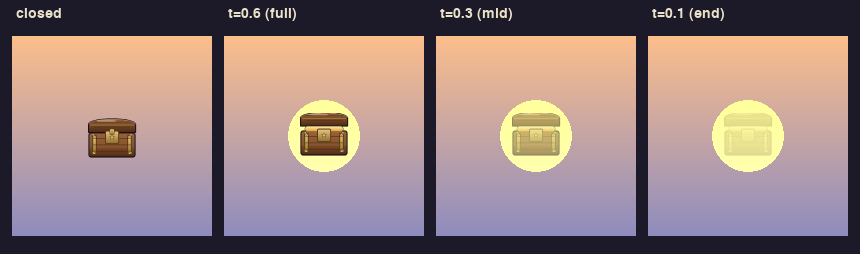
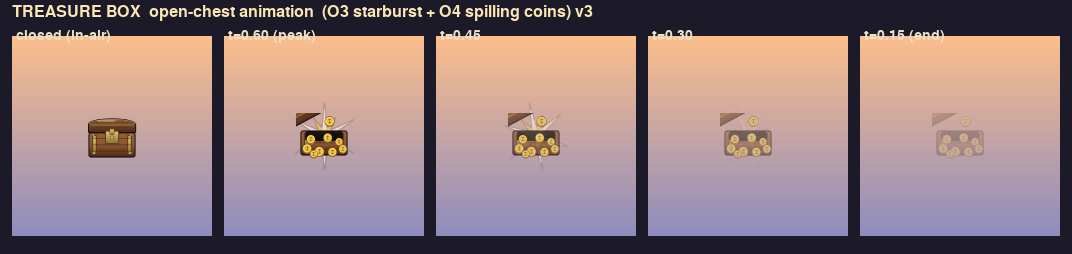
Treasure box: revise open-chest moment to O3+O4 combined
Round 1's open sprite ("lid lifted 5px + flat gold strip") read as
bland; user rejected it. Round 2 combines the two strongest candidates
from the options sheet:

* O4 spilling-coin pile — half-open lid rotated 28 deg back on a rear
  hinge, dark interior void, 3 back-row coins inside the body, 5
  spilling coins breaking the front-lip silhouette, 1 larger coin
  leaping above the lid. Ports the icon_b2 recipe from the design
  tool wrapped in W4 walnut + brass so the chest still reads as the
  approved design family.
* O3 starburst halo — 12-ray cream/gold fan drawn BEHIND the chest,
  rotating ~75 deg/sec for shimmer. Sized 1.24x the chest so the rays
  poke past the silhouette by ~12% per side; capped at alpha 180 so
  the rays never wash out the chest underneath.

Per-frame composition driven by claimed_anim_t / TREASURE_BOX_ANIM_T:

* Starburst fades over the FIRST 55% of the window (quadratic fall-off)
  so it reads as the "flash of the jackpot," not a permanent backdrop.
* Chest fades linearly over the FULL window so the loot read survives
  past the burst flash.

The two-stage fade staggering is what fixes the "starburst washes out
chest" symptom from the first v2 attempt — the rays peak with the
chest, then bow out so the eye settles on the spilling coins.

Reuses _gold_coin verbatim from tools/render_treasure_box_options.py
(the parent design tool's helper). Starburst is a fresh procedural
draw at SS supersample, smoothscaled to footprint, cached at module
[…]

diff --git a/game/treasure_box.py b/game/treasure_box.py
@@ -44,10 +44,16 @@ BRASS_INK = (90, 62, 18)
 
 GOLD_INK = (110, 72, 10)
 
-# Interior treasure-light gradient — used only by the open variant to
-# fill the gap between the raised lid and the body.
-GLOW_HI = (255, 244, 196)
-GLOW_LO = (220, 152, 48)
+# Gold-coin palette (for the spilling coin pile in the open variant).
+GOLD_HI  = (255, 232, 124)
+GOLD_MID = (240, 196,  72)
+GOLD_LO  = (188, 138,  28)
+
+# Starburst rays — alternating cream / saturated gold / cream so the
+# 12-ray fan radiating behind the open chest carries a clear three-tone
+# "jackpot" pop instead of a flat yellow halo.
+STAR_CREAM = (252, 244, 218)
+STAR_GOLD  = (252, 200,  88)
 
 # Lid grain ticks reuse the design tool's neutral wood-grain ink so the
 # walnut top has the same dark ladder of cross-strokes the docs sheet
@@ -278,40 +284,154 @@ def _build_closed() -> pygame.Surface:
 
 
 def _build_open() -> pygame.Surface:
-    """Lid lifted, gold interior visible through the gap. The brass
-    lock stays on the body (where it'd really be bolted); the brass
-    star reads as a focal anchor over the spilled treasure light."""
+    """Open chest, B2 'overflowing gold' recipe in W4 walnut + brass.
+
+    Half-open lid rotated 28 deg back on a rear hinge; dark interior
+    void inside the body so the gold pile reads against a shadow; 3
+    coins behind the front lip, 5 coins spilling over the lip (breaking
+    the silhouette so the spill reads as motion), 1 larger coin
+    floating above the open lid. Drawn at SS, smoothscaled to footprint.
+
+    The starburst halo sits BEHIND this sprite at draw time — it lives
+    on its own cached surface so it can rotate independently with the
+    animation timer (see draw_open_sprite)."""
     big = _new_big()
     ink = max(3, int(SS * 1.05))
     body, lid = _common_layout()
 
+    # Body — same walnut as the closed sprite so it still reads as W4.
     _chest_body(big, body, ink, WALNUT_HI, WALNUT_MID, WALNUT_LO)
     _brass_bands_and_grain(big, body, ink)
 
-    rise = int(body.height * 0.18)
-    raised_lid = lid.move(0, -rise)
-    _curved_lid(big, raised_lid, ink, WALNUT_HI, WALNUT_MID, WALNUT_LO,
+    # Inside-of-box dark void so the spilled coins read against shadow.
+    inner = pygame.Rect(body.left + int(body.width * 0.10),
+                        body.top + int(body.height * 0.04),
+                        body.width - int(body.width * 0.20),
+                        int(body.height * 0.40))
+    _vgrad_rect(big, inner, (32, 22, 14), (12, 8, 4),
+                radius=max(2, inner.width // 16))
+    pygame.draw.rect(big, INK, inner,
+                     max(1, ink // 2),
+                     border_radius=max(2, inner.width // 16))
+
+    # Half-open curved lid rotated ~28 deg back. Hinged at the back-top
+    # of the body (mirrors icon_b2's pattern from the design tool).
+    lid_w = lid.width
+    lid_h = int(lid.height * 1.6)
+    lid_surf = pygame.Surface((lid_w + 8, lid_h + 8), pygame.SRCALPHA)
+    local_lid = pygame.Rect(4, lid_h - lid.height, lid_w, lid.height)
+    _curved_lid(lid_surf, local_lid, ink,
+                WALNUT_HI, WALNUT_MID, WALNUT_LO,
                 grain=True, sheen=True)
-    _lid_strap(big, raised_lid, ink)
+    _lid_strap(lid_surf, local_lid, ink)
+    rot = pygame.transform.rotate(lid_surf, 28)
+    hinge = (body.left + int(lid.width * 0.18),
+             body.top - int(lid.height * 0.10))
+    big.blit(rot, rot.get_rect(midbottom=hinge))
 
-    # Gold-glow interior fills the vertical gap exposed by the lift.
-    glow_top = raised_lid.bottom
-    glow_bot = body.top + int(body.height * 0.06)
-    glow_w = body.width - int(body.width * 0.18)
-    glow_h = max(SS, glow_bot - glow_top)
-    glow = pygame.Rect(0, 0, glow_w, glow_h)
-    glow.midtop = (body.centerx, glow_top)
-    _vgrad_rect(big, glow, GLOW_HI, GLOW_LO,
-                radius=max(2, int(glow.width * 0.10)))
-    pygame.draw.rect(big, GOLD_INK, glow, max(1, ink // 2),
-                     border_radius=max(2, int(glow.width * 0.10)))
+    # Coin pile — pile_cy / coin_r0 match the B2 design recipe so the
+    # spacing and overlap stay battle-tested.
+    pile_cy = body.top + int(body.height * 0.55)
+    coin_r0 = int(body.height * 0.18)
 
-    # Lock + brass star — drawn AFTER the glow so the focal ornament
-    # sits above the spilled light. Clasp dropped (the lid took it).
-    _brass_lock_plate(big, body, ink, with_clasp=False)
+    # Back-row coins inside the box (3, partially behind the front lip).
+    for (ox, oy, rs) in ((-0.28, -0.20, 1.0),
+                         ( 0.08, -0.26, 1.0),
+                         ( 0.32, -0.10, 0.9)):
+        _gold_coin(big,
+                   body.centerx + int(body.width * ox),
+                   pile_cy + int(body.height * oy),
+                   max(3, int(coin_r0 * rs)),
+                   ink)
 
-    _apply_unifiers(big, body, raised_lid)
+    # Front-spill coins (5) breaking the body's front edge silhouette.
+    for (ox, oy, rs) in ((-0.36,  0.18, 1.05),
+                         (-0.10,  0.30, 1.10),
+                         ( 0.18,  0.32, 1.00),
+                         ( 0.40,  0.20, 0.95),
+                         (-0.22,  0.40, 0.90)):
+        _gold_coin(big,
+                   body.centerx + int(body.width * ox),
+                   pile_cy + int(body.height * oy),
+                   max(3, int(coin_r0 * rs)),
+                   ink)
+
+    # One bigger coin leaping out above the open lid — captures the
+    # "GOLD IS ERUPTING" beat at a focal point above the body.
+    _gold_coin(big,
+               body.centerx + int(body.width * 0.12),
+               pile_cy + int(body.height * -0.92),
+               max(4, int(coin_r0 * 1.10)),
+               ink)
+
     return _smoothscale(big)
+
+
+def _gold_coin(big, cx, cy, r, ink_w, glyph=True):
+    """Stylised gold coin — concentric gradient + rim + $-glyph chord.
+    Verbatim copy of the design tool helper (tools/render_treasure_box_
+    options.py:268). Used by the open variant's spilling-coin pile."""
+    pygame.draw.circle(big, GOLD_LO, (cx, cy + max(1, r // 6)), r)
+    pygame.draw.circle(big, GOLD_HI, (cx, cy), r)
+    pygame.draw.circle(big, GOLD_MID, (cx, cy), max(1, int(r * 0.78)))
+    pygame.draw.circle(big, GOLD_INK, (cx, cy), r, max(1, ink_w // 2))
+    if glyph and r >= 4:
+        pygame.draw.line(big, GOLD_INK,
+                         (cx - r // 3, cy - r // 3),
+                         (cx + r // 3, cy - r // 3),
+                         max(1, ink_w // 2))
+        pygame.draw.line(big, GOLD_INK,
+                         (cx - r // 3, cy + r // 3),
+                         (cx + r // 3, cy + r // 3),
+                         max(1, ink_w // 2))
+        pygame.draw.line(big, GOLD_INK,
+                         (cx, cy - r // 2),
+                         (cx, cy + r // 2),
+                         max(1, ink_w // 2))
+
+
+# ── Starburst halo ──────────────────────────────────────────────────────────
+# Lives on its own cached surface so the draw path can rotate it
+# independently of the chest. Sized 1.6x the chest footprint so the
+# rays extend ~30% past the chest silhouette on every side at peak.
+
+# Sized 1.3x the chest so the rays poke past the silhouette by ~15% per
+# side at peak scale — readable as a halo without swallowing the chest.
+_STARBURST_RADIUS = int(max(PICKUP_W, PICKUP_H) * 0.62)
+_STARBURST_SIZE   = _STARBURST_RADIUS * 2
+
+
+def _build_starburst() -> pygame.Surface:
+    """12-ray cream/gold fan radiating from centre. Built at SS supersample
+    then smoothscaled. Alternating cream / saturated gold / cream tones
+    so the burst doesn't read as one flat yellow halo."""
+    big = pygame.Surface((_STARBURST_SIZE * SS, _STARBURST_SIZE * SS),
+                         pygame.SRCALPHA)
+    cx = _STARBURST_SIZE * SS // 2
+    cy = _STARBURST_SIZE * SS // 2
+    r_long = _STARBURST_RADIUS * SS
+    r_short = int(r_long * 0.65)
+    # Each ray is a slim isoceles triangle from centre to its tip; we
+    # alternate between long/short to give the fan rhythm.
+    rays = 12
+    for k in range(rays):
+        ang = -math.pi / 2 + k * (math.tau / rays)
+        col = STAR_CREAM if k % 2 == 0 else STAR_GOLD
+        r_tip = r_long if k % 2 == 0 else r_short
+        half_w = int(r_long * 0.10)
+        # Triangle vertices: tip + two base corners offset perpendicular
+        # to the ray direction.
+        tip = (cx + math.cos(ang) * r_tip,
+               cy + math.sin(ang) * r_tip)
+        base_a = (cx + math.cos(ang + math.pi / 2) * half_w,
+                  cy + math.sin(ang + math.pi / 2) * half_w)
+        base_b = (cx + math.cos(ang - math.pi / 2) * half_w,
+                  cy + math.sin(ang - math.pi / 2) * half_w)
+        pygame.draw.polygon(big, col, [tip, base_a, base_b])
+    # Soft cream core hides the messy intersection point at the centre.
+    pygame.draw.circle(big, STAR_CREAM, (cx, cy), int(r_long * 0.18))
+    return pygame.transform.smoothscale(
+        big, (_STARBURST_SIZE, _STARBURST_SIZE))
 
 
 # ── Public API ──────────────────────────────────────────────────────────────
@@ -319,6 +439,7 @@ def _build_open() -> pygame.Surface:
 
 _CLOSED_CACHE: "pygame.Surface | None" = None
 _OPEN_CACHE: "pygame.Surface | None" = None
+_STARBURST_CACHE: "pygame.Surface | None" = None
 
 
 def _closed_sprite() -> pygame.Surface:
@@ -335,6 +456,13 @@ def _open_sprite() -> pygame.Surface:
     return _OPEN_CACHE
 
 
+def _starburst_sprite() -> pygame.Surface:
+    global _STARBURST_CACHE
+    if _STARBURST_CACHE is None:
+        _STARBURST_CACHE = _build_starburst()
+    return _STARBURST_CACHE
+
+
 def draw_pickup_icon(surf, cx, cy, pulse):
     """Closed-lid in-air sprite. Gentle sine bob on `pulse`, same idiom
     as the rest of the procedural icon family."""
@@ -344,11 +472,42 @@ def draw_pickup_icon(surf, cx, cy, pulse):
     surf.blit(icon, r.topleft)
 
 
-def draw_open_sprite(surf, cx, cy, fade_alpha):
-    """Open-lid sprite for the post-pickup lid-pop animation. The
-    caller fades alpha 255 → 0 over the animation duration."""
-    icon = _open_sprite()
-    sprite = icon.copy()
-    sprite.set_alpha(max(0, min(255, int(fade_alpha))))
-    r = sprite.get_rect(center=(int(cx), int(cy)))
-    surf.blit(sprite, r.topleft)
+def draw_open_sprite(surf, cx, cy, anim_t, anim_t_max):
+    """Open-chest sprite (O3+O4 combined): a slowly-rotating cream/gold
+    starburst halo behind the chest, then the half-open lid + spilling
+    coin pile on top. Fades 255 → 0 over the post-pickup window.
+
+    anim_t  — seconds remaining on the lid-pop timer (drains to 0).
+    anim_t_max — initial timer value (== TREASURE_BOX_ANIM_T)."""
+    t = max(0.0, min(1.0, anim_t / anim_t_max)) if anim_t_max > 0 else 0.0
+    cx, cy = int(cx), int(cy)
+    elapsed = anim_t_max - anim_t
+
+    # Starburst halo — punches in over the first 0.15 s, then fades out
+    # over the FIRST half of the window (faster than the chest) so it
+    # reads as the "flash of the jackpot" rather than a permanent
+    # backdrop. Normal alpha (no BLEND_ADD) keeps the rays from
+    # blowing out against bright dawn-sky backdrops. Max alpha capped
+    # at 180 so the cream rays never wash out the chest underneath.
+    burst = _starburst_sprite()
+    burst_window = anim_t_max * 0.55
+    if elapsed < burst_window:
+        burst_t = 1.0 - (elapsed / burst_window) ** 2
+    else:
+        burst_t = 0.0
+    burst_alpha = max(0, min(180, int(180 * burst_t)))
+    if burst_alpha > 0:
+        # Slow CCW rotation gives the rays a shimmer without any zoom
+        # envelope — full size from frame 0 so the halo reads behind
+        # the chest on the very first frame of the animation.
+        deg = (elapsed * 75.0) % 360.0
+        burst_rot = pygame.transform.rotozoom(burst, deg, 1.0)
+        burst_rot.set_alpha(burst_alpha)
+        surf.blit(burst_rot, burst_rot.get_rect(center=(cx, cy)))
+
+    # Chest — half-open lid + spilling coin pile, fades over the full
+    # window so the loot read survives past the starburst flash.
+    chest_alpha = max(0, min(255, int(255 * t)))
+    sprite = _open_sprite().copy()
+    sprite.set_alpha(chest_alpha)
+    surf.blit(sprite, sprite.get_rect(center=(cx, cy)))

diff --git a/game/entities.py b/game/entities.py
@@ -1894,15 +1894,11 @@ class PowerUp:
             cx, cy = int(self.x), int(self.y)
             if self.claimed_anim_t > 0.0:
                 from game.config import TREASURE_BOX_ANIM_T
-                from game.draw import blit_glow, UI_GOLD as _UI_GOLD
-                t = self.claimed_anim_t / TREASURE_BOX_ANIM_T
-                # Halo bloom + lid-popped sprite, both fading with the
-                # animation timer so the loot beat decays into a flash
-                # of light rather than snapping out.
-                blit_glow(surf, cx, cy, 36, _UI_GOLD,
-                          alpha=max(0, min(255, int(220 * t))))
+                # Combined O3 (starburst) + O4 (spilling coins) — the
+                # starburst halo + chest fade are both driven by anim_t
+                # inside draw_open_sprite, so no extra glow needed here.
                 _tb_open(surf, cx, cy,
-                         fade_alpha=max(0, min(255, int(255 * t))))
+                         self.claimed_anim_t, TREASURE_BOX_ANIM_T)
             else:
                 _tb_closed(surf, cx, cy, self.pulse)
 
